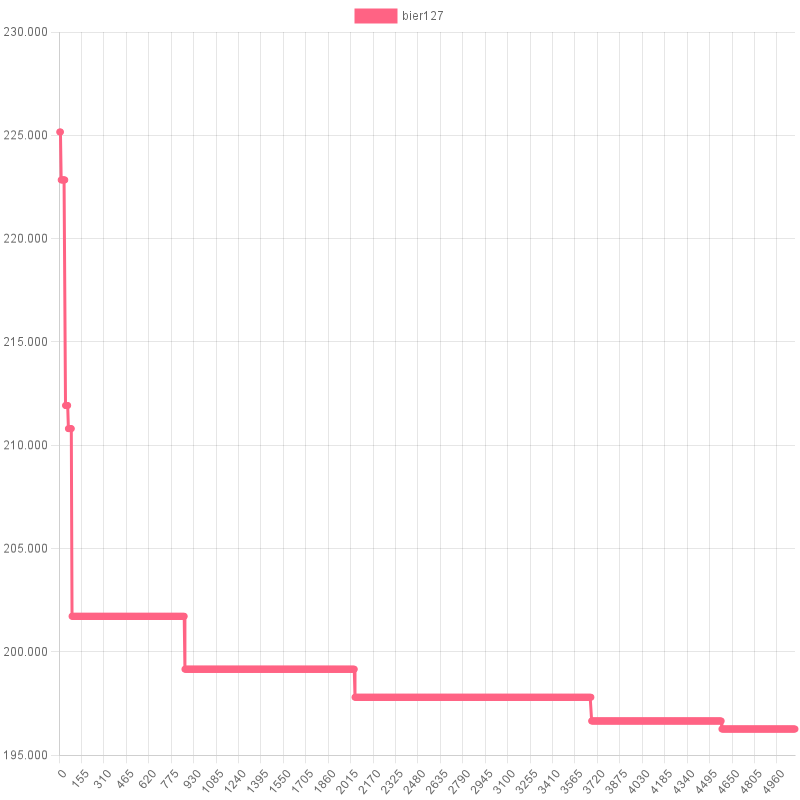
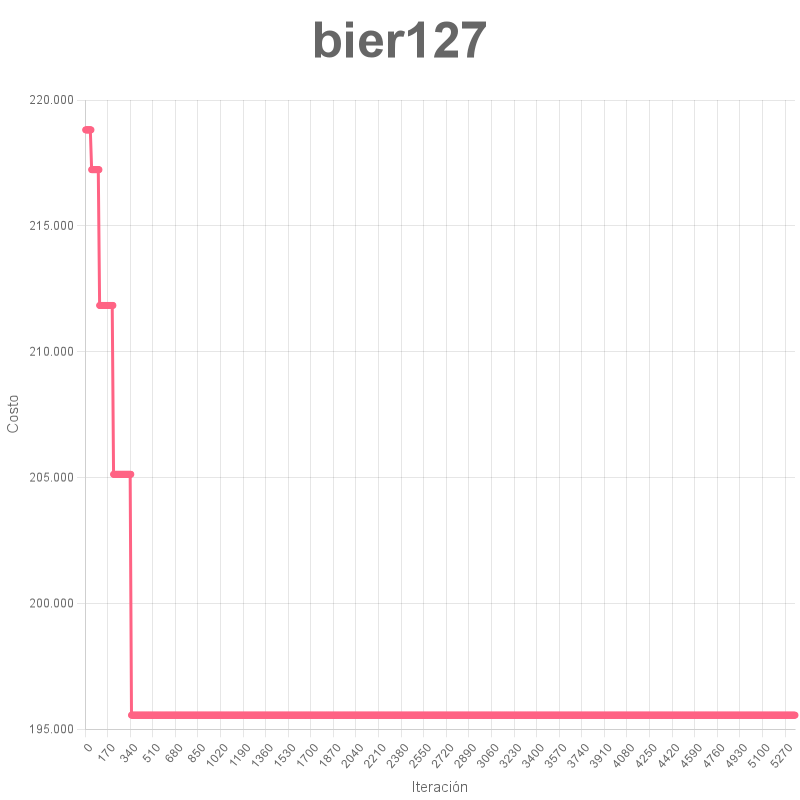
Se completa informe y se actualizan algunos graficos

Changed region(s): [[0.0, 0.0938, 1.0, 1.0], [0.375, 0.0, 0.625, 0.0938], [0.0, 0.0312, 0.0625, 0.0625]]

diff --git a/src/scoring.js b/src/scoring.js
@@ -37,6 +37,7 @@ const scoring = {
     275
   ),
   [GRAFOS._21_NODOS]: Math.max(
+    //Mejor costo encontrado: 1130
     3754,
     240,
     213,
@@ -47,8 +48,9 @@ const scoring = {
     300,
     1527,
     1485
-  ), //Mejor costo encontrado: 1130
+  ),
   [GRAFOS._24_NODOS]: Math.max(
+    //Mejor costo encontrado: 7027
     484,
     28,
     1344,
@@ -88,7 +90,6 @@ const scoring = {
   ),
   [GRAFOS._29_NODOS_]: Math.max(
     //Mejor costo encontrado: 2399
-    2155,
     2091,
     60,
     3180,
@@ -97,7 +98,8 @@ const scoring = {
     1821,
     341,
     93,
-    87
+    87,
+    4131
   ),
   [GRAFOS._42_NODOS]: Math.max(
     //Mejor costo encontrado: 850
@@ -152,6 +154,7 @@ const scoring = {
     150
   ),
   [GRAFOS._52_NODOS]: Math.max(
+    //Mejor costo encontrado: 9087
     8,
     416,
     1229,
@@ -162,7 +165,7 @@ const scoring = {
     452,
     2450,
     3932
-  ), //Mejor costo encontrado: 9087
+  ),
   [GRAFOS._57_NODOS]: Math.max(
     //Mejor costo encontrado: 29041
     2646,
@@ -176,16 +179,16 @@ const scoring = {
     2249,
     3167
   ),
-  [GRAFOS._76_NODOS]: Math.max(255, 12, 269, 3992, 4536), //Mejor costo encontrado: 701
+  [GRAFOS._76_NODOS]: Math.max(255, 12, 269, 3992, 4536, 6, ), //Mejor costo encontrado: 701
   [GRAFOS._96_NODOS]: Math.max(6, 52, 217, 84, 314, 2529), //Mejor costo encontrado: 87966
   [GRAFOS._101_NODOS]: Math.max(17, 20, 165, 9, 295, 837), //Mejor costo encontrado: 848
-  [GRAFOS._120_NODOS]: Math.max(4, 1, 72, 352, 9), //Mejor costo encontrado: 10332
+  [GRAFOS._120_NODOS]: Math.max(4, 1, 72, 352, 9, 26), //Mejor costo encontrado: 10332
   [GRAFOS._127_NODOS]: Math.max(55, 3224, 2469, 13, 88), //Mejor costo encontrado: 169609
   [GRAFOS._130_NODOS]: Math.max(41, 217, 97, 128, 48), //Mejor costo encontrado: 10202
   [GRAFOS._137_NODOS]: Math.max(25, 5, 917, 6, 42, 1838), //Mejor costo encontrado: 115832
-  [GRAFOS._150_NODOS]: Math.max(3, 10, 2093, 2, 29), //Mejor costo encontrado: 11657
-  [GRAFOS._180_NODOS]: Math.max(21, 1, 2, 88, 3), //Mejor costo encontrado: 3480
-  [GRAFOS._198_NODOS]: Math.max(14, 380, 23, 9, 595, 99), //Mejor costo encontrado: 26500
+  [GRAFOS._150_NODOS]: Math.max(3, 10, 2093, 2, 29, 231, 79), //Mejor costo encontrado: 11657
+  [GRAFOS._180_NODOS]: Math.max(21, 1, 2, 88, 3, 4, 1), //Mejor costo encontrado: 3480
+  [GRAFOS._198_NODOS]: Math.max(14, 380, 23, 9, 595, 99, 12), //Mejor costo encontrado: 26500
 };
 
 const grafos = Object.keys(scoring);

diff --git a/src/classes/grafo.js b/src/classes/grafo.js
@@ -3,7 +3,7 @@ import floyd from "../utils/floyd.js";
 export class Grafo {
   constructor(nombre, M) {
     this.nombre = nombre;
-    this.matriz = floyd(M); //Se completa la matriz
+    this.matriz = floyd(M); //Matriz completa
     //TODO: Generar lista de adyacencias para poder obtener los adyacentes de un nodo en 0(1)
     this.nodos = Array.from(Array(M.length).keys());
     this.n = M.length;

diff --git a/README.md b/README.md
@@ -66,7 +66,7 @@ La idea fue obtener un aproximado a la cantidad de iteraciones que se necesitan 
 4. Se repiten los pasos anteriores una cantidad de veces suficiente para obtener una cantidad de iteraciones lógicas y medibles para el grafo.
 5. Una vez registrados todos los valores de las distintas ejecuciones, se selecciona al máximo de todos ellos.
 
-Se adjuntan [gráficos de scoring](/src/graficos/Graficos.md) de las pruebas en cada uno de los grafos.
+Se adjuntan, a modo de ejemplo, los [gráficos de scoring](/src/graficos/Graficos.md) de alguna de las ejecuciones de GRASP para cada uno de los grafos.
 
 Una vez realizados los reportes y obtenidas las cantidades finales para cada grafo, se generó el gráfico de scoring que determina la cantidad de iteraciones necesarias (eje Y) sobre cada grafo (eje X) que permite aproximar la cantidad de ejecuciones necesarias para encontrar un valor cercano al óptimo sin desperdiciar tiempo de cómputo.
 
@@ -75,23 +75,26 @@ Una vez realizados los reportes y obtenidas las cantidades finales para cada gra
 ### Conclusiones
 
 - El algoritmo GRASP se apróxima a la solución óptima demasiado rápido, es decir, en las primeras iteraciones. En las siguientes iteraciones el porcentaje de mejora pasa a ser muy bajo, nulo y mayormente negativo (peores soluciones).
-- Las soluciones que el algoritmo GRASP consigue son cada vez menos cercanas a la óptima ni bien se aumenta el número de nodos del grafo.
-Al terminar las pruebas noté que mi porcentaje minimo de mejora aceptable fue muy ambicioso, y eso fue en parte lo que no permitia encontrar soluciones más cercanas a la óptima ya que solía descartar mejoras de 2%, 1% o menos, en particular en los grafos más grandes.
-Además, no considerar mejoras de menor porcentaje afectó también a que no se reinicie el contador de reintentos una vez que se encontraba una mejora mínima, lo que generaba que el algoritmo "corte antes de tiempo".
-- ... 
+
+- El gráfico denota que a mayor cantidad de nodos en un grafo, mayor será la cantidad de iteraciones para encontrar una solución óptima o cercana a la misma sin desperdiciar tiempo de cómputo. Es importante aclarar que este comportamiento se refleja solamente en los grafos chicos; llámese chicos a los grafos que constan de hasta aproximadamente 70 nodos. A partir de grafos más grandes el comportamiento y los resultados son distintos.
+- Para los grafos más grandes, por el contrario al punto anterior, a mayor cantidad de nodos en un grafo, menor será la cantidad de iteraciones necesarias. De las pruebas en los grafos más grandes deduje que la poca cantidad de iteraciones necesarias se debía a que los costos de las soluciones obtenidas distaban mucho más de la solución óptima, es decir que las soluciones eran cada vez peores. Si bien los resultados del gráfico de scoring denotan mucha disparidad entre grafos de cantidad de nodos similares, se evidencia una ligera tendencia a necesitar cada vez menos iteraciones en cuanto la cantidad de nodos incrementa.
+- Como consecuencia de la conclusión del punto anterior, noté que mi porcentaje mínimo de mejora aceptable (3%) fue muy ambicioso. Esto creo que fue, entre otros motivos, lo que no me permitía encontrar soluciones más cercanas a la óptima ya que despreciaba mejoras mínimas que debería haber considerado como aceptables.
+- Además, la decisión de definir un porcentaje de mejora muy alto, llevó al algoritmo a no reiniciar el contador de reintentos cuando se encontraba con una mejora despreciable y por ende el tiempo de ejecución del algoritmo no se extendía lo suficiente como para poder encontrar otra posible mejora. Este recorte en el tiempo de ejecución entiendo que fue la principal causa de no encontrar un número de iteraciones máximas superior; dicho de otro modo, si la cantidad de reintentos se reiniciara con más frecuencia, sería más probable encontrar un número de iteración máxima superior.
 
 ---
 
-### Instructivo para exportar gráficos de scoring de un grafo
+### Instructivo para ejecutar GRASP
 
 1. Instalar dependencias:
    >npm install
 
-2. Abrir archivo *index.js* e indicar sobre qué grafo de la batería ejecutar GRASP. Por ejemplo:
+2. Indicar la cantidad de nodos del grafo en el archivo *index.js*. Por ejemplo:
    >const G = obtenerGrafo("./resources/tests/", GRAFOS_XML._198_NODOS);
 
 3. Determinar los parámetros de GRASP. Por ejemplo:
    >const { solucion, grafico } = grasp(G, 50000, 5000, 3);
+   
+   50000 ejecuciones máximas, 5000 reintentos y 3% de porcentaje de mejora mínima.
 
 3. Ejecutar GRASP y exportar gráfico de scoring:
    >npm start

diff --git a/src/graficos/Graficos.md b/src/graficos/Graficos.md
@@ -1,3 +1,22 @@
 <img src="grafos/burma14.png" width="350"/>
-
-COMPLETAR CON MÁS GRAFICOS
+<img src="grafos/gr21.png" width="350"/>
+<img src="grafos/gr24.png" width="350"/>
+<img src="grafos/fri26.png" width="350"/>
+<img src="grafos/bayg29.png" width="350"/>
+<img src="grafos/bays29.png" width="350"/>
+<img src="grafos/dantzig42.png" width="350"/>
+<img src="grafos/gr48.png" width="350"/>
+<img src="grafos/att48.png" width="350"/>
+<img src="grafos/eil51.png" width="350"/>
+<img src="grafos/berlin52.png" width="350"/>
+<img src="grafos/brazil58.png" width="350"/>
+<img src="grafos/eil76.png" width="350"/>
+<img src="grafos/gr96.png" width="350"/>
+<img src="grafos/eil101.png" width="350"/>
+<img src="grafos/gr120.png" width="350"/>
+<img src="grafos/bier127.png" width="350"/>
+<img src="grafos/ch130.png" width="350"/>
+<img src="grafos/gr137.png" width="350"/>
+<img src="grafos/ch150.png" width="350"/>
+<img src="grafos/brg180.png" width="350"/>
+<img src="grafos/d198.png" width="350"/>
